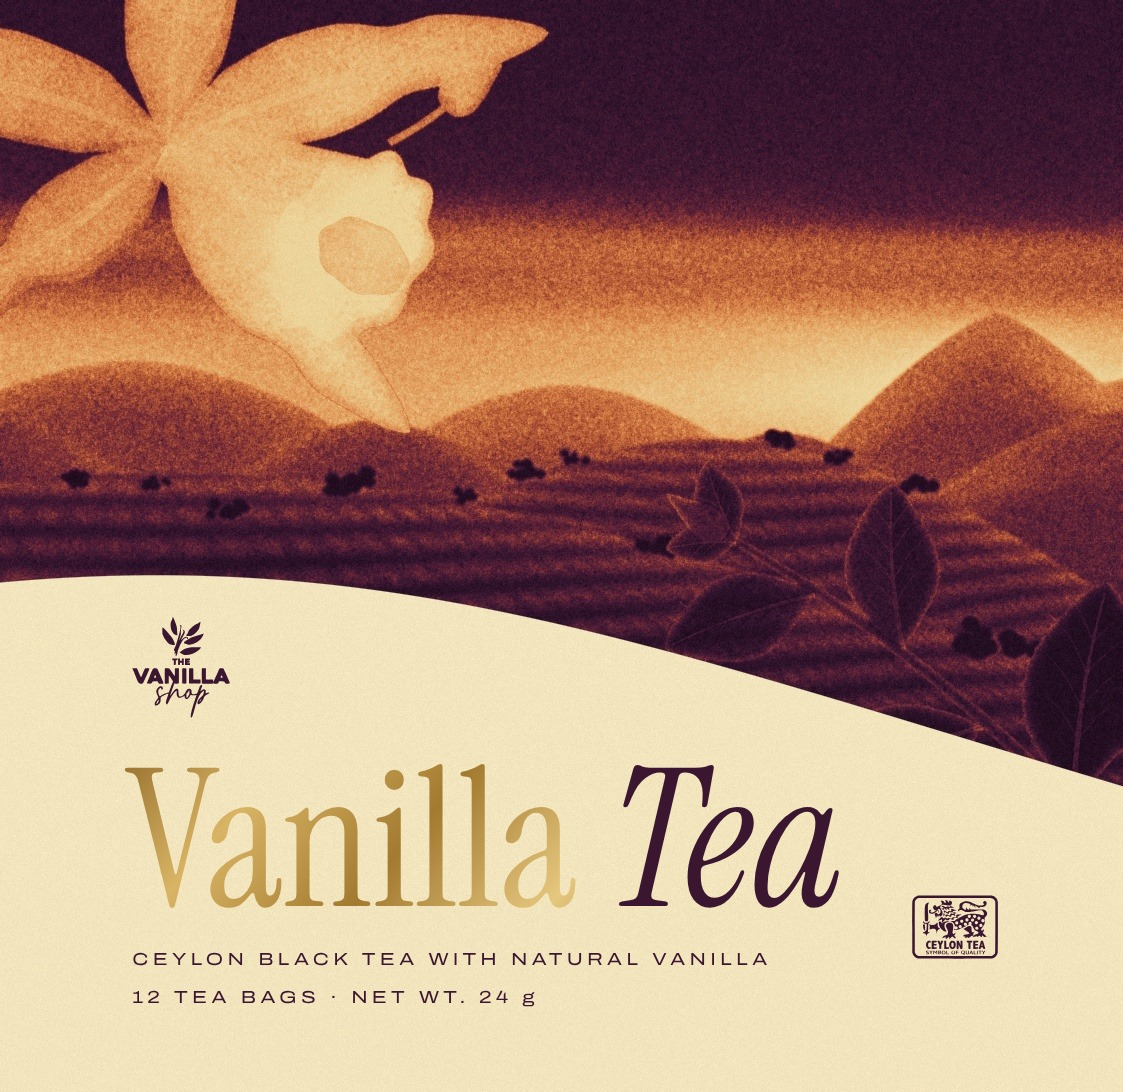
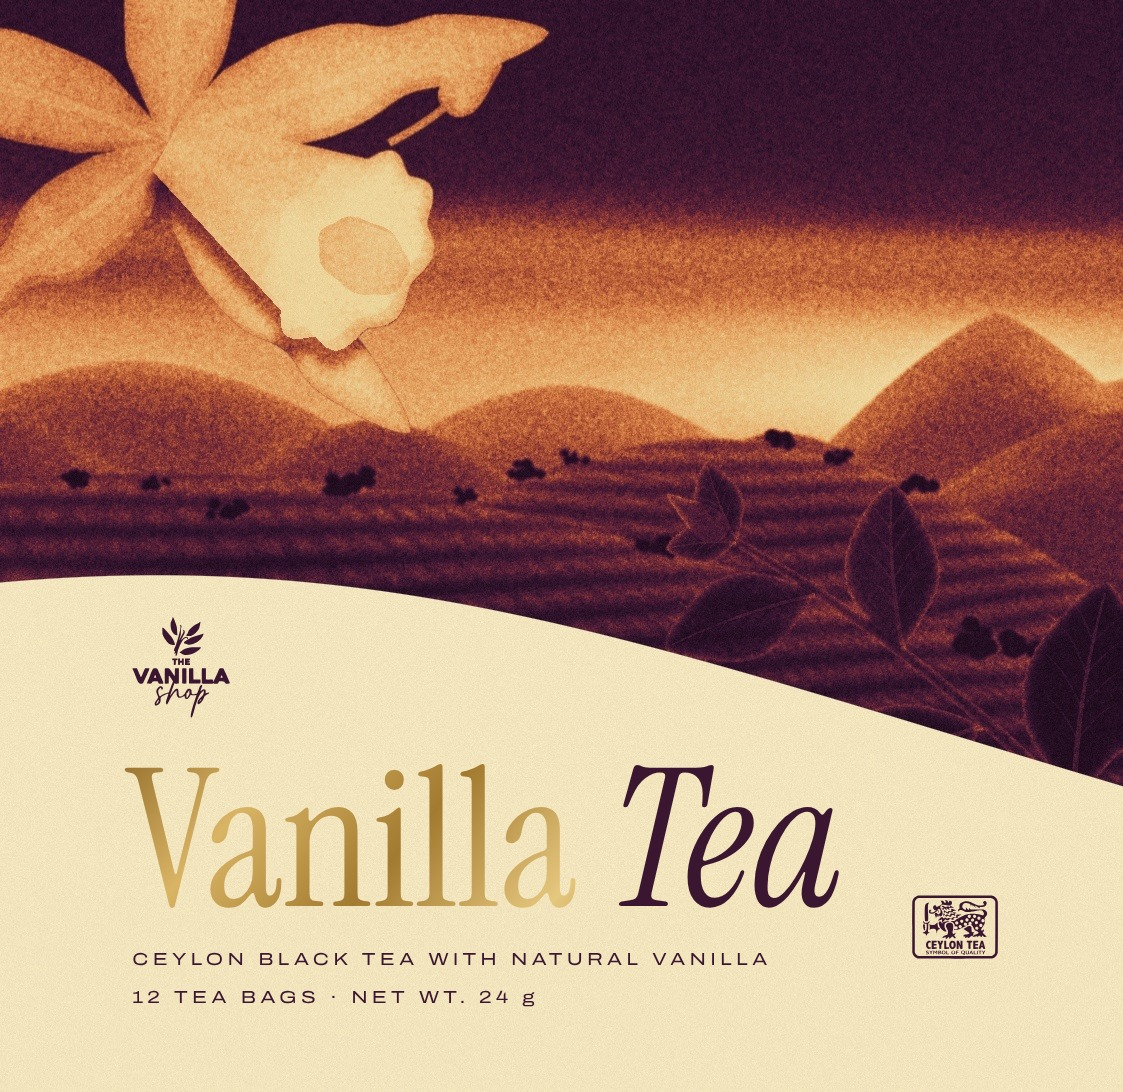
Tea: Estate grain in forest greens; a cast shadow under the flower's lip
Forest ramp: blackened forest, woodland, moss, golden olive, honey straw,
butter cream, with a contrast curve to keep the darks deep. The flower keeps
its own warm ramp so it stays butter-lit. The lip's shape is rebuilt from
paint_flower and cast down onto the lower petal.

Claude-Session: https://claude.ai/code/session_01Psd6wLDi15Gf4F1fXEFmxS

diff --git a/vanilla-shop/studies/tea/bandsystem/riso.py b/vanilla-shop/studies/tea/bandsystem/riso.py
@@ -9,7 +9,7 @@ sys.argv=sys.argv[:1]; sys.path.insert(0,S+'teasoap')
 import build6 as b6, kit
 from build6 import canvas, B, K, hx, lion
 from build2 import shoot
-from foliage2 import paint_flower, paint_vbud
+from foliage2 import paint_flower, paint_vbud, trumpet
 import draw as DR
 import heat as H
 import estate_front as EF
@@ -71,7 +71,15 @@ def grain(v,amt,seed):
     """spray grain: fine clumped noise pushed through the tones, strongest in the middle of each gradient"""
     h,w=v.shape; g=0.65*nz(h,w,0.55,0.55,seed)+0.35*nz(h,w,1.4,1.4,seed+1)
     return np.clip(v+amt*g*(0.12+3.2*v*(1-v)),0,1)
-def render(name,ramp,frog):
+def lip_shadow(h,w):
+    """the shadow the flower's lip (tube and mouth, rebuilt exactly as paint_flower draws them) casts on the petal under it"""
+    tube,mouth,_=trumpet((B+11,B+9),30,7.5*2.35,1.1*2.35,3.6*2.35,2.6*2.35,0.13)
+    im=Image.new('L',(w,h),0); dr=ImageDraw.Draw(im)
+    for poly in (tube,mouth): dr.polygon([(x*K,y*K) for x,y in poly],fill=255)
+    m=np.asarray(im).astype(np.float32)/255
+    sh=cv2.GaussianBlur(np.roll(np.roll(m,int(1.5*K),0),int(-0.4*K),1),(0,0),0.45*K)               # cast down, a touch left
+    return np.clip(sh-m,0,1)
+def render(name,ramp,fr=None,gam=1.0):
     img,_=canvas(FW,FH); h,w=img.shape[:2]
     L=cv2.GaussianBlur(scene(h,w),(0,0),0.12*K); (Lf,af),(Ls,as_)=foreground(h,w)
     yy,xx=np.mgrid[0:h,0:w].astype(np.float32)/K-B
@@ -86,19 +94,21 @@ def render(name,ramp,frog):
     ins=cv2.distanceTransform(m,cv2.DIST_L2,5)/K
     lo,hi=np.percentile(Lf[af>0.5],(3,99)); sh=np.clip((Lf-lo)/(hi-lo+1e-6),0,1)
     heart=np.exp(-(((xx-30)/17)**2+((yy-19)/15)**2))
-    fv=0.68+0.16*sh+0.22*heart-0.17*np.exp(-ins/0.8)
-    L=L*(1-af)+np.clip(fv,0,1)*af
-    v=grain(L,0.075,21)
-    out=H.ramp(v,ramp)
+    fv=0.68+0.16*sh+0.22*heart-0.17*np.exp(-ins/0.8)-0.40*lip_shadow(h,w)
+    fv=np.clip(fv,0,1)
+    v=grain(L,0.075,21)**gam; out=H.ramp(v,ramp)                                                  # gam>1: deeper darks, the light kept
+    fg=grain(fv,0.075,23); fo=H.ramp(fg,ramp) if fr is None else H.ramp(np.clip((fg-0.45)/0.55,0,1),fr)   # the flower keeps its own warm light
+    out=out*(1-af[...,None])+fo*af[...,None]
     out*=(1-0.06*np.clip(nz(h,w,40*K,40*K,5),0,1))[...,None]                                            # faint unevenness of a print
     out+=np.random.default_rng(5).normal(0,3.0,(h,w))[...,None]
     Image.fromarray(out.clip(0,255).astype(np.uint8)).save(O+name+'.jpg',quality=95)
-RAMPS={'plum':['#1C0B1A','#341530','#57203A','#86333B','#BC5A38','#E58A4C','#F5B872','#FCE3A6'],
+FLOWER={'forest':['#A8935A','#D2BC7E','#E3CD8D','#F5E7B6','#FBF2D2']}
+RAMPS={'forest':['#142D25','#30513A','#71804A','#B3A663','#E3CD8D','#F5E7B6'],'plum':['#1C0B1A','#341530','#57203A','#86333B','#BC5A38','#E58A4C','#F5B872','#FCE3A6'],
        'green':['#08171A','#0F2A2C','#17433F','#2C6455','#6F8E62','#C99A5C','#EFC487','#FBEACB']}
-INK={'plum':'#3B1631','green':'#163F3D'}; CREAM={'plum':'#F3E6BE','green':'#F4EEDF'}
+INK={'forest':'#142D25','plum':'#3B1631','green':'#163F3D'}; CREAM={'forest':'#F3E6BE','plum':'#F3E6BE','green':'#F4EEDF'}
 if __name__=='__main__':
     man=[]
-    for k,ramp in RAMPS.items():
-        render(f'rs-{k}-art',ramp,0); EF.CREAM=CREAM[k]; EF.GREEN=INK[k]; EF.compose(f'rs-{k}-art.jpg',f'rs-{k}.jpg')
+    for k in ('forest','plum'):
+        ramp=RAMPS[k]; render(f'rs-{k}-art',ramp,FLOWER.get(k),1.3 if k=='forest' else 1.0); EF.CREAM=CREAM[k]; EF.GREEN=INK[k]; EF.compose(f'rs-{k}-art.jpg',f'rs-{k}.jpg')
         man.append(b6.face(f'rs-{k}',FW,FH,f'rs-{k}.jpg',EF.overlay()))
     json.dump(man,open(O+'rs.json','w')); print('ok')
